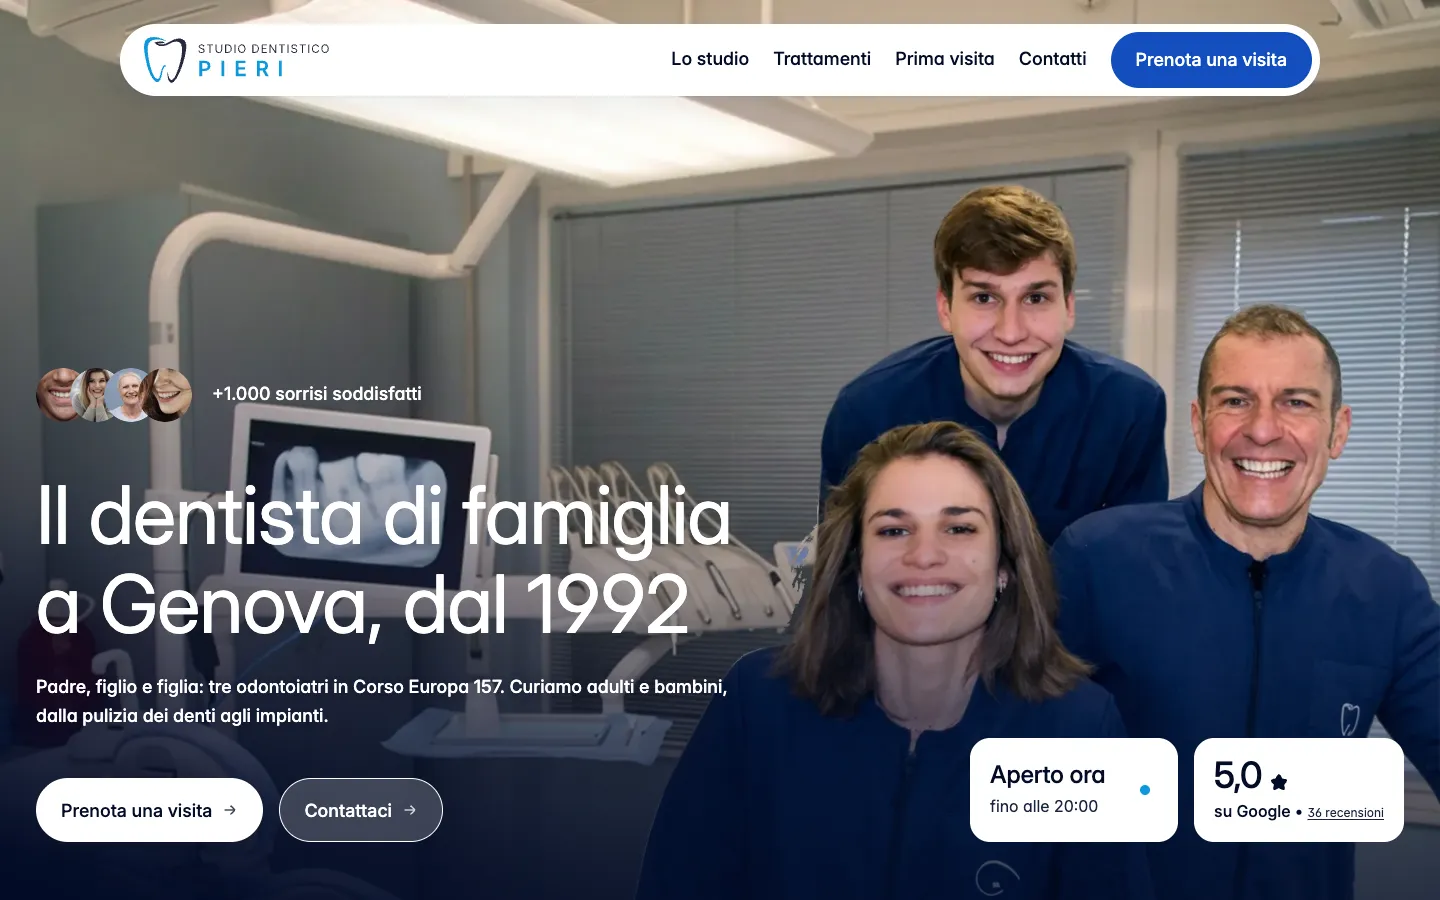
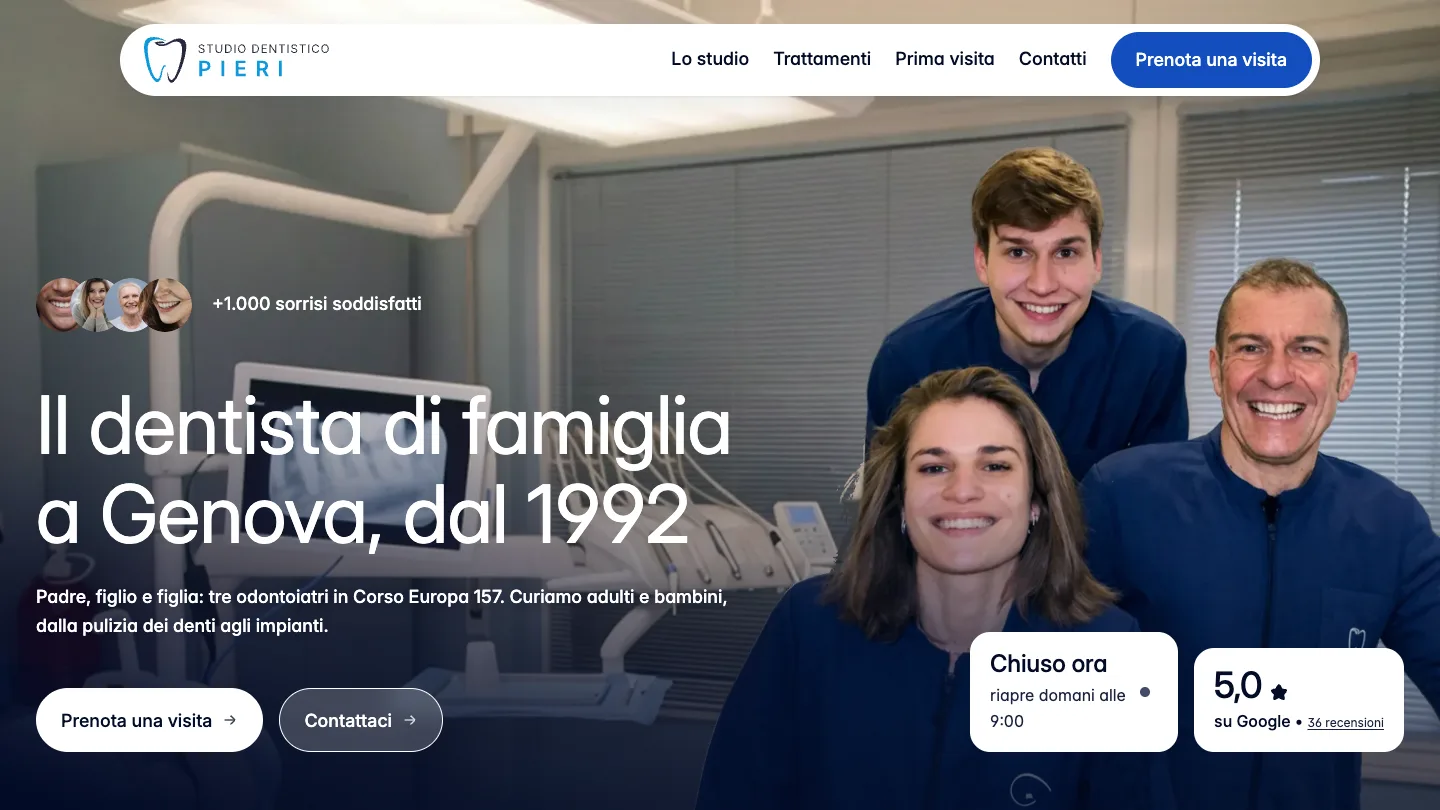
iPhone 15 Pro frame everywhere; Pieri: no browser chrome (status bar only on iPhone), full hero on the iMac, clean 01 and padded 04 images, 24px radius, new mobile screens, equal process cards; home: Pieri name in the text, Private chip lightens and unlocks on hover

diff --git a/src/styles/global.css b/src/styles/global.css
@@ -275,8 +275,8 @@ html.is-paused *, html.is-paused *::before, html.is-paused *::after { animation-
 .case-hero__media:has(.atl) { aspect-ratio: auto; height: clamp(440px, 38vw, 540px); }
 @media (max-width: 760px) { .case-hero__media:has(.atl) { height: 560px; } }
 
-/* iPhone mockup (Figma "iphone 15"): used by Alé and the private case studies.
+/* iPhone 15 Pro mockup (frame: img/iphone-15-pro.webp, transparent screen): Alé, private cases, website cases.
    The screen image is cropped to 375x812 and aligned to the top. */
-.phone-mock { position: relative; display: block; aspect-ratio: 143.44 / 298.22; }
+.phone-mock { position: relative; display: block; aspect-ratio: 979 / 2000; }
 .phone-mock__frame { position: absolute; inset: 0; width: 100%; height: 100%; pointer-events: none; }
-.phone-mock__screen { position: absolute; left: 3.36%; top: 1.38%; width: 93.9%; height: 97.24%; object-fit: cover; object-position: top; border-radius: 9% / 4.3%; }
+.phone-mock__screen { position: absolute; left: 4.6%; top: 1.95%; width: 90.7%; height: 96.05%; object-fit: cover; object-position: top; border-radius: 12.6% / 5.8%; }
